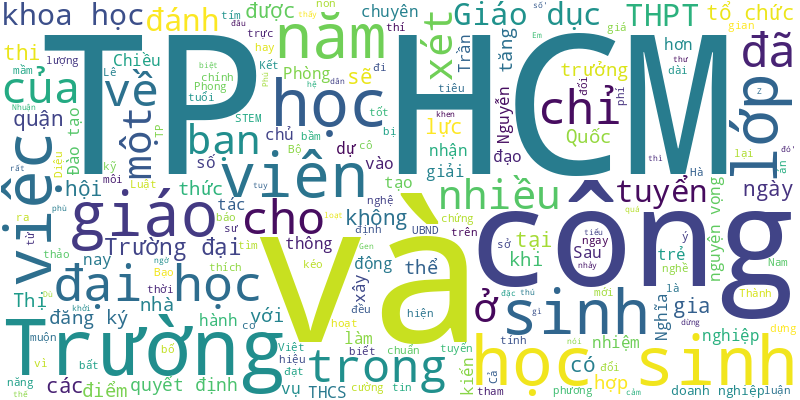
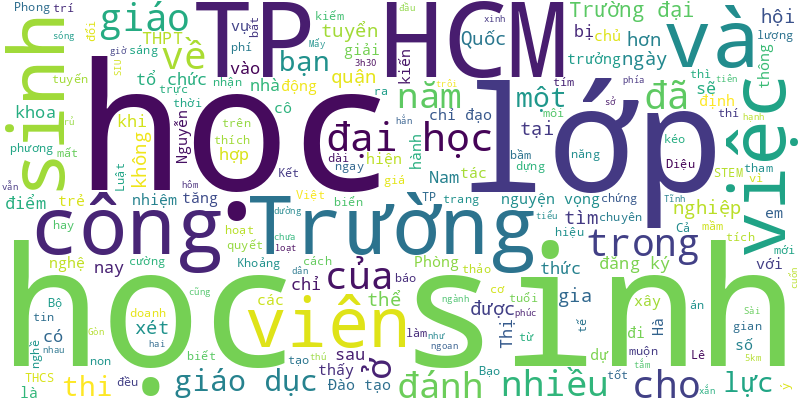
🍀 = 50%

diff --git a/README.md b/README.md
@@ -1,6 +1,10 @@
 # Tuoi Tre RSS 
 
 ## Giáo dục 
+- Khoảng 3h30 sáng nay 20-5, lực lượng tìm kiếm đã tìm thấy thi thể một nam sinh bị mất tích trên biển, cách hiện trường khoảng 5km.
+- Trường Đại học Quốc tế Sài Gòn (SIU) là cơ sở giáo dục đầu tiên của phía Nam đào tạo ngành Công nghệ giáo dục.
+- Mấy hôm nay vào lớp, học sinh dường như ngoan hơn hẳn, lớp học trang trí xinh xắn hơn, cô giáo cũng hạnh phúc hơn.
+- 5 học sinh lớp 9 ở Hà Tĩnh rủ nhau đi tắm biển thì 2 em bị sóng đánh cuốn trôi, sau nhiều giờ tìm kiếm vẫn chưa thấy hai em học sinh mất tích.
 - Học sinh tiểu học, THCS ở quận 8, TP.HCM thích thú tham gia loạt hoạt động trong ngày hội 'Em là công dân số'.
 - 'Không có gì quá đặc biệt khi nói thế hệ Gen Z hay nhảy việc. Ở đâu các bạn cảm thấy công việc phù hợp thì các bạn sẽ dừng lại đó'.
 - Nhiều học sinh ở quận Phú Nhuận, TP.HCM cho biết đã rất bất ngờ khi nhận được thư khen của cô trưởng Phòng Giáo dục và Đào tạo.
@@ -27,12 +31,38 @@
 - Thanh tra Bộ Xây dựng kết luận Trường đại học Kiến trúc TP.HCM có nhiều vi phạm trong tổ chức cán bộ, thực hiện nhiệm vụ khoa học công nghệ.
 - Chiều 16-5, gần 500 sinh viên đã tham gia hội thảo “Thị trường chứng khoán Việt Nam - Hành lang pháp lý và kiến thức cơ bản cho sinh viên”, diễn ra tại Trường đại học Công nghệ TP.HCM.
 - Ngày 16-5, ban tổ chức Tien Phong Stem Robotics, một sân chơi trí tuệ cho những học sinh yêu thích khoa học, tổ chức họp báo về cuộc thi này.
-- Chiều nay 16-5, UBND TP.HCM đã công bố quyết định thành lập Trường THCS và THPT Trần Đại Nghĩa, trên cơ sở tổ chức lại Trường THPT chuyên Trần Đại Nghĩa.
-- Việc xét công nhận đạt tiêu chuẩn chức danh giáo sư, phó giáo sư năm 2024 sẽ thẩm định kỹ chất lượng các công trình khoa học và các tạp chí đăng tải, bảo đảm tính liêm chính khoa học đối với từng hồ sơ.
-- Chuyện trưởng khoa một trường đại học làm giám đốc doanh nghiệp ngoài trường tạo dư luận trái chiều.
-- Sở Giáo dục và Đào tạo TP.HCM vừa có quyết định tăng hơn 5.500 chỉ tiêu tuyển sinh lớp 10 năm học 2024-2025.
 ![Edu](Edu.png)
 ## Thời Sự 
+- Khoảng 3h30 sáng nay 20-5, lực lượng tìm kiếm đã tìm thấy thi thể một nam sinh bị mất tích trên biển, cách hiện trường khoảng 5km.
+- Sáng 20-5, cơn mưa trút xuống nhiều nơi ở TP.HCM vào đúng giờ cao điểm khiến xe cộ ùn ứ, đi lại khó khăn.
+- Ngày 19-5, HĐND TP.HCM khóa X tổ chức kỳ họp thứ 15 thông qua báo cáo đồ án điều chỉnh Quy hoạch chung TP.HCM đến năm 2040, tầm nhìn đến năm 2060; quyết nghị các chính sách quan trọng phát triển kinh tế - xã hội và bầu phó chủ tịch UBND TP.
+- Sáng nay 20-5, kỳ họp thứ 7 Quốc hội khóa XV khai mạc. Đáng chú ý, tại kỳ họp sẽ tiến hành việc bầu chức danh Chủ tịch Quốc hội, Chủ tịch nước và thông qua nhiều dự luật, quyết định các vấn đề quan trọng.
+- Quốc hội khóa XV khai mạc kỳ họp thứ 7 trong bối cảnh tình hình nhân sự vừa qua có nhiều thay đổi. Dự thảo báo cáo kiến nghị cử tri gửi đến kỳ họp có nêu vấn đề nhiều cán bộ cấp cao bị xử lý do vi phạm kỷ luật Đảng.
+- Tôm hùm xanh nuôi của 95 hộ nuôi ở xã Xuân Thịnh (thị xã Sông Cầu, tỉnh Phú Yên) chết hàng loạt, nhận định ban đầu do thời tiết nắng nóng, kết hợp mưa dông.
+- Ngoài mặt tiền đường Lê lợi, hàng loạt nhà ở, cửa hàng, công trình công cộng tại quận 1, TP.HCM đang bị hình vẽ bậy tấn công, mất mỹ quan.
+- Sáng 20-5, kỳ họp thứ 7 của Quốc hội khai mạc. Kỳ họp chia làm hai đợt và sẽ bắt đầu quy trình bầu Chủ tịch Quốc hội ngay trong ngày làm việc đầu tiên.
+- Hiện tại mây phát triển mạnh, mưa dông xảy ra từ sớm tại TP.HCM và các tỉnh Nam Bộ. Trong sáng nay mưa tiếp tục diễn ra và gây khó khăn cho đi lại sáng đầu tuần.
+- Một số tin tức đáng chú ý: Gói tín dụng 120.000 tỉ đồng nhà ở xã hội sau 1 năm giải ngân chưa tới 1%; Nhiều đại gia bất động sản chậm trả nợ trái phiếu; Giá muối chỉ còn 900-1.200 đồng/kg...
+- Hôm nay 20-5, mưa là thời tiết chủ đạo trên cả nước, nhiều nơi mưa rất to, đề phòng dông gió, lũ quét, sạt lở đất.
+- Tại các TP như Hà Nội và TP.HCM, giá nhà đất đã tăng khoảng 400 lần tính từ năm 1990. Những tỉnh miền núi hay xa trung tâm cũng tăng khoảng 100 lần.
+- Theo Cục CSGT, Phạm Đức Hải (Hải 'idol') và các đồng phạm dàn 4 xe sang đón dâu giữa đường nhằm đánh bóng tên tuổi, tăng lượng người theo dõi và tương tác trên các kênh bán hàng.
+- Người đàn ông đi xe máy trong cơn mưa dông bị sét đánh chết ở khu vực xã Giao Hải, huyện Giao Thủy, tỉnh Nam Định.
+- Phó thủ tướng Trần Lưu Quang dẫn đầu đoàn đại biểu Đảng, Nhà nước đến thăm, chúc mừng đại lão Hòa thượng Thích Trí Quảng, Đức Pháp chủ Giáo hội Phật giáo Việt Nam.
+- Chương trình nghệ thuật đặc biệt kéo dài gần 2 tiếng ở Nghĩa trang liệt sĩ quốc gia Trường Sơn đã lột tả đầy đủ, hùng tráng về chiều dài lịch sử 65 năm đường Trường Sơn.
+- Một cháu bé bị trượt chân xuống hồ tích nước tưới rau củ, ba cháu xuống cứu rồi cùng chết đuối.
+- Vinh quang Việt Nam năm 2024 vinh danh các cá nhân thầm lặng như trung tá Nguyễn Chí Thành - chỉ huy 'đội quân người nhái', cô Sáu Thia dạy bơi cho trẻ em...
+- Đại tướng Phan Văn Giang, bộ trưởng Bộ Quốc phòng, thăm, tặng quà các gia đình chính sách và tặng 20 nhà tình nghĩa tại Quảng Trị.
+- Cơ quan chức năng tỉnh Quảng Trị đề nghị thu hồi sổ đỏ có tài sản gắn liền với đất của dự án Nhà máy điện gió Hướng Linh 2 vì sai Luật Đất đai. Đây là dự án có trụ điện gió trồng ngoài đất được cấp mà Tuổi Trẻ Online đã phản ánh.
+- Chiều 19-5, Thủ tướng đã phát lệnh khởi công dự án mở rộng nhà ga hành khách T2 sân bay Nội Bài, nâng công suất sân bay này từ 25 triệu lên 30 triệu khách/năm.
+- Dự báo chiều tối và đêm nay ở miền Bắc sẽ có mưa vừa đến mưa to. Khu vực Trung và Nam Trung Bộ, Tây Nguyên và Nam Bộ có mưa rào và dông.
+- Những ngày này các thương lái đã đến tỉnh Bắc Giang để thu mua vải thiều, phần nhiều là xuất khẩu đi Trung Quốc, Nhật Bản, Mỹ, EU với giá cao.
+- Tại tỉnh Tây Ninh đã diễn ra chuỗi sự kiện liên quan ngành nông nghiệp có quy mô quốc tế lớn nhất từ trước đến nay tại Tây Ninh và Đông Nam Bộ.
+- Giải pháp gỡ vướng mắc xác định giá đất được Sở Tài nguyên - Môi trường trình cho UBND TP.HCM sẽ gỡ cho hơn 100 dự án.
+- Với vốn đầu tư nghìn tỉ đồng, công cuộc nạo vét, khơi thông 19km sông Cổ Cò đoạn qua Quảng Nam hiện nay đang bị ách tắc, vì sao?
+- TP.HCM sẽ cải tạo, nâng cấp một số tuyến đường, xây cầu bộ hành và lắp đèn tín hiệu giao thông tại 76 giao lộ để đảm bảo an toàn giao thông.
+- Ngọn lửa bất ngờ bùng lên tại công ty sản xuất giày dép ở Đồng Nai, cột khói bốc cao hàng chục mét khiến nhiều người khiếp sợ.
+- Đây gần như là lần đầu tiên xây dựng tình huống tai nạn đuối nước và có người bị nạn bị mắc kẹt ở khu vực suối cụ thể.
+- Mưa lớn trên diện rộng tại nhiều tỉnh Tây Nguyên 2 ngày qua đã giúp cứu hạn cho rất nhiều vùng trồng cà phê, chanh dây, sầu riêng.
 ![New](News.png)
 ## Nhịp sống số 
 - Nhiều người thường ngại ngùng khi bắt chuyện lại với người bạn đã lâu không liên lạc. Các nhà khoa học đã có cách giúp họ.
